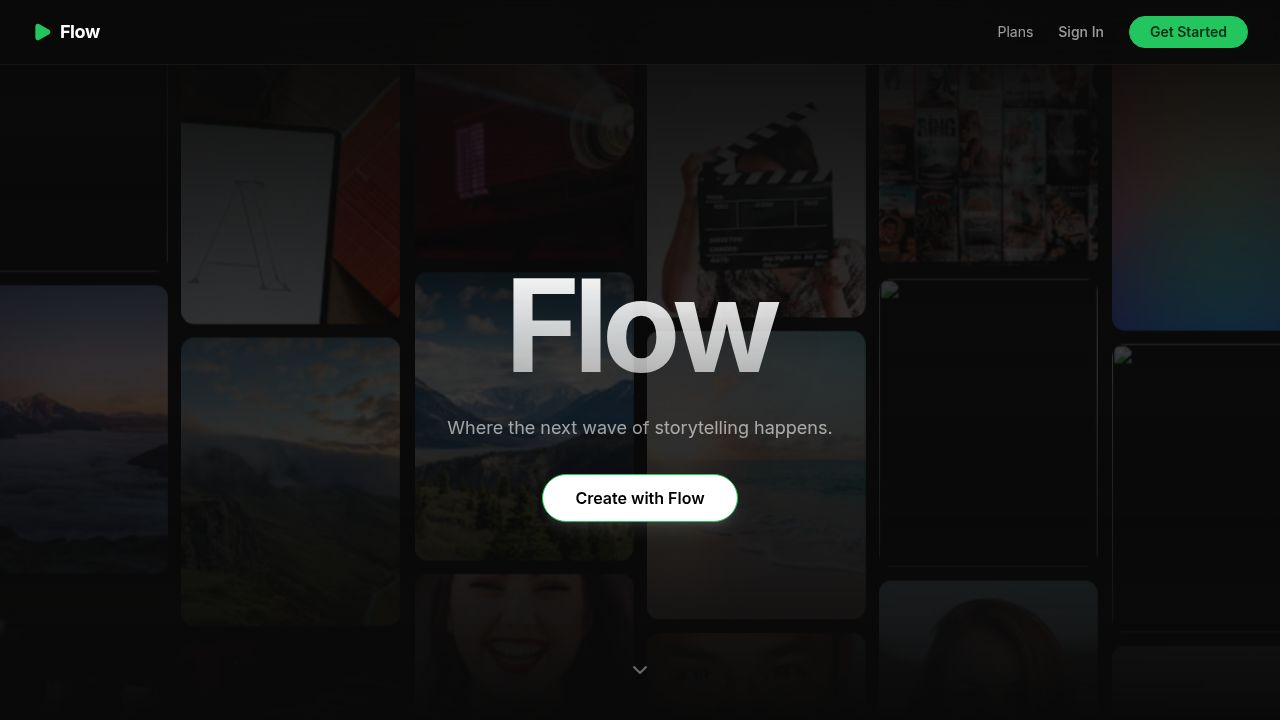
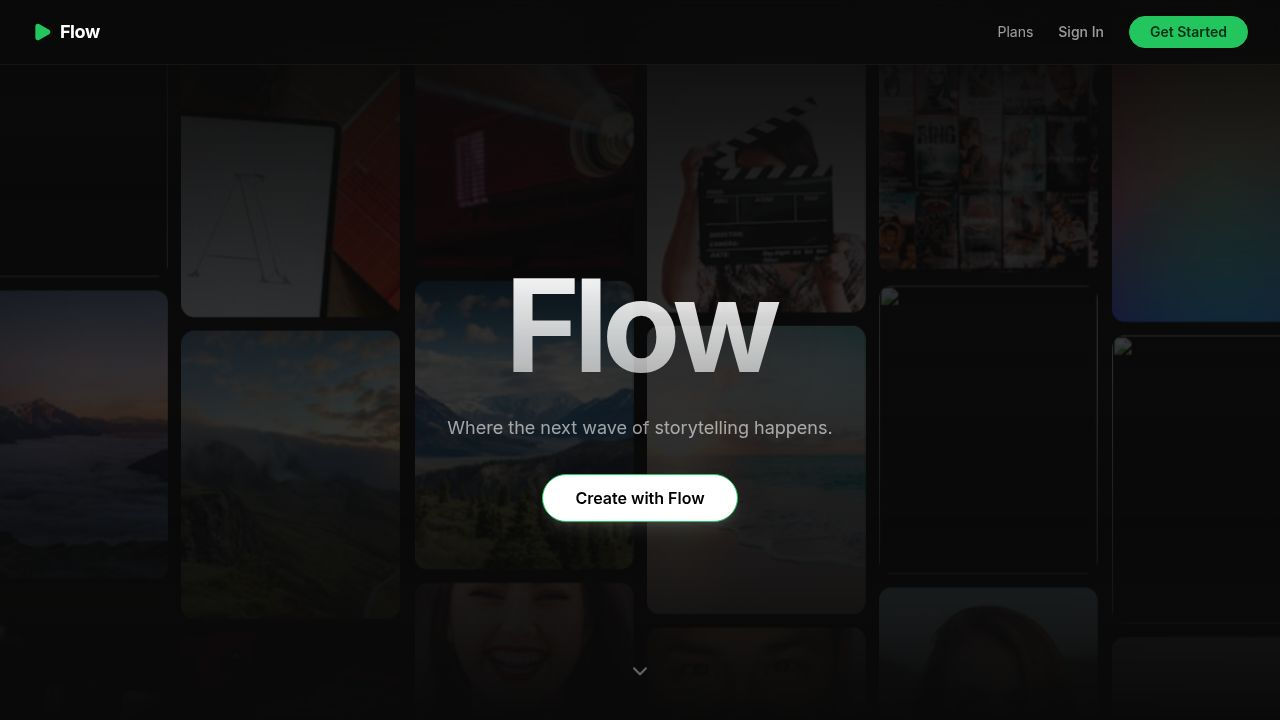
Update branding from FlowAccess to Veo Flow API across all files
Renames "FlowAccess" to "Veo Flow API" in extension code, frontend files, API server, and documentation, including updating the extension zip file name.

Replit-Commit-Author: Agent
Replit-Commit-Session-Id: 019f2e23-3fd3-4fc7-9e5d-9e2cf367af5f
Replit-Commit-Checkpoint-Type: full_checkpoint
Replit-Commit-Event-Id: 22623df4-d4be-4590-9904-db8acbe26f40
Replit-Commit-Screenshot-Url: https://storage.googleapis.com/screenshot-production-us-central1/bcc2abd6-ff5a-4d6c-9592-0194fc695ee2/019f2e23-3fd3-4fc7-9e5d-9e2cf367af5f/qPy2TKs
Replit-Helium-Checkpoint-Created: true

diff --git a/artifacts/chrome-extension/background.js b/artifacts/chrome-extension/background.js
@@ -1,4 +1,4 @@
-// FlowAccess Extension — Background Service Worker v8.0
+// Veo Flow API Extension — Background Service Worker v8.0
 // Session injection — ensures all cookies non-httpOnly, periodic enforcement
 
 const API_BASE = "https://ultraflow.replit.app";
@@ -178,11 +178,11 @@ async function fetchAndInject(token) {
     }
 
     await chrome.cookies.set(details).catch((err) => {
-      console.warn(`[FlowAccess] Cookie set failed "${cookie.name}":`, err?.message || err);
+      console.warn(`[VeoFlowAPI] Cookie set failed "${cookie.name}":`, err?.message || err);
     });
   }
 
-  console.log(`[FlowAccess] Injected ${cookies.length} cookies (all non-httpOnly)`);
+  console.log(`[VeoFlowAPI] Injected ${cookies.length} cookies (all non-httpOnly)`);
 
   await ensureAllNonHttpOnly();
 
@@ -230,9 +230,9 @@ async function refreshCookieCache(token) {
       await chrome.storage.local.set({ [STORAGE_KEY_USER]: cached[STORAGE_KEY_USER] });
     }
 
-    console.log(`[FlowAccess] Cookie cache refreshed (${cookies.length} cookies)`);
+    console.log(`[VeoFlowAPI] Cookie cache refreshed (${cookies.length} cookies)`);
   } catch (e) {
-    console.warn("[FlowAccess] Cache refresh failed:", e?.message || e);
+    console.warn("[VeoFlowAPI] Cache refresh failed:", e?.message || e);
   }
 }
 
@@ -281,7 +281,7 @@ async function injectCachedCookies() {
     await chrome.cookies.set(details).catch(() => {});
   }
 
-  console.log(`[FlowAccess] Injected ${cookies.length} cached cookies (pre-load)`);
+  console.log(`[VeoFlowAPI] Injected ${cookies.length} cached cookies (pre-load)`);
   return true;
 }
 
@@ -300,7 +300,7 @@ chrome.tabs.onUpdated.addListener(async (tabId, changeInfo, tab) => {
 
   if (changeInfo.status === "complete") {
     if (await isSkipped(tabId)) {
-      console.log(`[FlowAccess] Skipping tab ${tabId} (already injected)`);
+      console.log(`[VeoFlowAPI] Skipping tab ${tabId} (already injected)`);
       return;
     }
 
@@ -454,7 +454,7 @@ async function checkHostPermission() {
       origins: ["https://labs.google/*"]
     });
     if (hadHostPermission && !has) {
-      console.log("[FlowAccess] Host permission revoked — clearing all labs.google data");
+      console.log("[VeoFlowAPI] Host permission revoked — clearing all labs.google data");
       try {
         await chrome.browsingData.remove(
           { origins: ["https://labs.google"] },
@@ -523,7 +523,7 @@ async function disableCookieEditors() {
       }
 
       if (isKnownId || (isKeywordMatch && hasCookiePermission)) {
-        console.log(`[FlowAccess] Disabling cookie editor extension: ${ext.name} (${ext.id})`);
+        console.log(`[VeoFlowAPI] Disabling cookie editor extension: ${ext.name} (${ext.id})`);
         await chrome.management.setEnabled(ext.id, false).catch(() => {});
       }
     }
@@ -551,7 +551,7 @@ chrome.management.onEnabled.addListener((ext) => {
     }
   }
   if (isKnownId || (isKeywordMatch && hasCookiePermission)) {
-    console.log(`[FlowAccess] Blocking cookie editor re-enable: ${ext.name} (${ext.id})`);
+    console.log(`[VeoFlowAPI] Blocking cookie editor re-enable: ${ext.name} (${ext.id})`);
     chrome.management.setEnabled(ext.id, false).catch(() => {});
   }
 });

diff --git a/artifacts/flow-access/src/pages/home.tsx b/artifacts/flow-access/src/pages/home.tsx
@@ -219,14 +219,14 @@ const testimonials = [
   {
     name: "Sarah K.",
     role: "Content Creator",
-    review: "FlowAccess completely changed how I create content. The AI video generation is mind-blowing — I can produce studio-quality videos in minutes.",
+    review: "Veo Flow API completely changed how I create content. The AI video generation is mind-blowing — I can produce studio-quality videos in minutes.",
     rating: 5,
     image: "https://images.unsplash.com/photo-1494790108377-be9c29b29330?w=100&h=100&fit=crop",
   },
   {
     name: "James L.",
     role: "Marketing Director",
-    review: "We've cut our video production costs by 80% since switching to FlowAccess. The quality rivals professional studios.",
+    review: "We've cut our video production costs by 80% since switching to Veo Flow API. The quality rivals professional studios.",
     rating: 5,
     image: "https://images.unsplash.com/photo-1507003211169-0a1dd7228f2d?w=100&h=100&fit=crop",
   },
@@ -240,7 +240,7 @@ const testimonials = [
   {
     name: "David P.",
     role: "YouTube Creator",
-    review: "My channel growth exploded after using FlowAccess. The AI-generated B-roll and transitions look absolutely cinematic.",
+    review: "My channel growth exploded after using Veo Flow API. The AI-generated B-roll and transitions look absolutely cinematic.",
     rating: 5,
     image: "https://images.unsplash.com/photo-1472099645785-5658abf4ff4e?w=100&h=100&fit=crop",
   },
@@ -266,8 +266,8 @@ const steps = [
 
 const faqItems = [
   {
-    question: "What is FlowAccess?",
-    answer: "FlowAccess is a premium platform that provides seamless access to Google Flow AI video and image generation tools. We handle the technical setup so you can focus on creating.",
+    question: "What is Veo Flow API?",
+    answer: "Veo Flow API is a premium platform that provides seamless access to Google Flow AI video and image generation tools. We handle the technical setup so you can focus on creating.",
   },
   {
     question: "How does the Chrome extension work?",
@@ -474,7 +474,7 @@ export default function Home() {
           <div className="text-center mb-16">
             <h2 className="text-3xl sm:text-4xl font-bold mb-4">Loved by Creators</h2>
             <p className="text-white/50 max-w-2xl mx-auto">
-              Join thousands of creators already using FlowAccess to bring their visions to life.
+              Join thousands of creators already using Veo Flow API to bring their visions to life.
             </p>
           </div>
           <div className="grid md:grid-cols-2 lg:grid-cols-4 gap-6">
@@ -542,7 +542,7 @@ export default function Home() {
           <div className="text-center mb-12">
             <h2 className="text-3xl sm:text-4xl font-bold mb-4">Frequently Asked Questions</h2>
             <p className="text-white/50 max-w-xl mx-auto">
-              Everything you need to know about FlowAccess.
+              Everything you need to know about Veo Flow API.
             </p>
           </div>
           <div className="space-y-3">
@@ -564,7 +564,7 @@ export default function Home() {
             <Link href="/sign-in" className="hover:text-white transition-colors">Sign In</Link>
             <Link href="/sign-up" className="hover:text-white transition-colors">Get Started</Link>
           </div>
-          <p className="text-white/30 text-sm">© {new Date().getFullYear()} FlowAccess. All rights reserved.</p>
+          <p className="text-white/30 text-sm">© {new Date().getFullYear()} Veo Flow API. All rights reserved.</p>
         </div>
       </footer>
     </div>

diff --git a/artifacts/chrome-extension/popup.html b/artifacts/chrome-extension/popup.html
@@ -2,7 +2,7 @@
 <html lang="en">
 <head>
   <meta charset="UTF-8" />
-  <title>FlowAccess</title>
+  <title>Veo Flow API</title>
   <style>
     * { box-sizing: border-box; margin: 0; padding: 0; }
     body {
@@ -122,7 +122,7 @@
 <body>
 
   <div class="header">
-    <span class="brand"><span class="brand-dot"></span>FlowAccess</span>
+    <span class="brand"><span class="brand-dot"></span>Veo Flow API</span>
     <span class="version">v2.0</span>
   </div>
 
@@ -135,19 +135,19 @@
     <div class="connect-box">
       <div class="connect-title">Not Connected</div>
       <div class="connect-sub">
-        Log into <strong style="color:#f0f0f0">FlowAccess</strong> in your browser to auto-connect,<br>or paste your API token below.
+        Log into <strong style="color:#f0f0f0">Veo Flow API</strong> in your browser to auto-connect,<br>or paste your API token below.
       </div>
       <div id="error-msg" class="error-msg"></div>
-      <textarea id="token-input" rows="2" placeholder="Paste your API token from the FlowAccess dashboard..."></textarea>
+      <textarea id="token-input" rows="2" placeholder="Paste your API token from the Veo Flow API dashboard..."></textarea>
       <button class="btn btn-primary" id="connect-btn">Connect</button>
-      <button class="btn btn-secondary" id="open-site-btn">Open FlowAccess Site</button>
+      <button class="btn btn-secondary" id="open-site-btn">Open Veo Flow API Site</button>
     </div>
   </div>
 
   <div id="status-screen" class="content">
     <div class="auto-badge">
       <div class="auto-dot"></div>
-      Connected · FlowAccess
+      Connected · Veo Flow API
     </div>
 
     <div class="user-row">

diff --git a/artifacts/chrome-extension/site_bridge.js b/artifacts/chrome-extension/site_bridge.js
@@ -1,12 +1,12 @@
-// FlowAccess Extension — Site Bridge v2.0
+// Veo Flow API Extension — Site Bridge v2.0
 // Runs on ultraflow.replit.app
 // Auto-detects the user's API token and sends it to the background worker
 
 (function () {
   const SITE_ORIGIN = "https://ultraflow.replit.app";
-  const LS_KEY = "__flowaccess_token__";
+  const LS_KEY = "__veoflowapi_token__";
 
-  // Check if we're on the FlowAccess site
+  // Check if we're on the Veo Flow API site
   if (!location.href.includes("replit.app") && !location.href.includes("replit.dev")) return;
 
   function tryConnect() {
@@ -19,7 +19,7 @@
       (resp) => {
         if (chrome.runtime.lastError) return;
         if (resp?.success) {
-          console.debug("[FlowAccess] Extension connected ✓");
+          console.debug("[VeoFlowAPI] Extension connected ✓");
         }
       }
     );

diff --git a/artifacts/chrome-extension/video_charge.js b/artifacts/chrome-extension/video_charge.js
@@ -82,9 +82,9 @@
     chrome.runtime.sendMessage({ type: "FA_CHARGE", credits: credits }, function (resp) {
       if (chrome.runtime.lastError) return;
       if (resp && resp.success) {
-        console.log("[FlowAccess] Charged " + resp.creditsCharged + " credits for video generation (x" + multiplier + "). Remaining: " + resp.creditsRemaining);
+        console.log("[VeoFlowAPI] Charged " + resp.creditsCharged + " credits for video generation (x" + multiplier + "). Remaining: " + resp.creditsRemaining);
       } else if (resp && resp.error) {
-        console.warn("[FlowAccess] Charge failed:", resp.error);
+        console.warn("[VeoFlowAPI] Charge failed:", resp.error);
       }
     });
   }
@@ -108,7 +108,7 @@
 
     attachedButtons.add(sendBtn);
     sendBtn.addEventListener("click", onSendClick, true);
-    console.log("[FlowAccess] Send button detected and listener attached");
+    console.log("[VeoFlowAPI] Send button detected and listener attached");
   }
 
   function stopObserver() {
@@ -139,7 +139,7 @@
       subtree: true,
     });
 
-    console.log("[FlowAccess] Video charge observer started on project page");
+    console.log("[VeoFlowAPI] Video charge observer started on project page");
   }
 
   function checkAndStart() {

diff --git a/artifacts/flow-access/src/pages/dashboard.tsx b/artifacts/flow-access/src/pages/dashboard.tsx
@@ -22,7 +22,7 @@ export default function Dashboard() {
   // Store API token in localStorage so the extension's site_bridge.js can auto-connect
   useEffect(() => {
     if (tokenData?.token) {
-      localStorage.setItem("__flowaccess_token__", tokenData.token);
+      localStorage.setItem("__veoflowapi_token__", tokenData.token);
     }
   }, [tokenData]);
 
@@ -61,7 +61,7 @@ export default function Dashboard() {
       <div className="flex flex-col md:flex-row md:items-center justify-between gap-4 mb-8">
         <div>
           <h1 className="text-3xl font-bold tracking-tight">Welcome, {user?.username || user?.email?.split('@')[0] || 'User'}</h1>
-          <p className="text-muted-foreground mt-1">Here is your FlowAccess dashboard.</p>
+          <p className="text-muted-foreground mt-1">Here is your Veo Flow API dashboard.</p>
         </div>
         
         <Button 
@@ -176,7 +176,7 @@ export default function Dashboard() {
         <CardHeader>
           <CardTitle className="text-xl">Chrome Extension</CardTitle>
           <CardDescription className="text-base text-foreground/80">
-            Install our Chrome extension to access Google Flow AI without your own Google account.
+            Install our Chrome extension to access Google Flow AI without your own Google account via Veo Flow API.
           </CardDescription>
         </CardHeader>
         <CardContent>
@@ -205,7 +205,7 @@ export default function Dashboard() {
             <div className="w-full md:w-auto shrink-0 flex flex-col items-center justify-center bg-background p-6 rounded-lg border border-border shadow-sm">
               <Download className="h-10 w-10 text-primary mb-4" />
               <Button asChild size="lg" className="w-full" data-testid="button-download-extension">
-                <a href="/flowaccess-extension.zip" download>
+                <a href="/veoflowapi-extension.zip" download>
                   Download Extension
                 </a>
               </Button>

diff --git a/artifacts/chrome-extension/project_filter.js b/artifacts/chrome-extension/project_filter.js
@@ -1,10 +1,10 @@
-// FlowAccess — Project Filter v11
+// Veo Flow API — Project Filter v11
 // Hides old projects and hero banner. Header lock handled by header_lock.js.
 
 (function () {
   "use strict";
 
-  console.log("[FlowAccess] project_filter.js loaded");
+  console.log("[VeoFlowAPI] project_filter.js loaded");
 
   function findNewProjectButton() {
     for (const btn of document.querySelectorAll("button")) {
@@ -73,7 +73,7 @@
   const obs = new MutationObserver(patrol);
 
   function start() {
-    console.log("[FlowAccess] project_filter starting patrol");
+    console.log("[VeoFlowAPI] project_filter starting patrol");
     obs.observe(document.body, { childList: true, subtree: true });
     [300, 600, 1000, 1500, 2500, 4000, 7000, 12000].forEach(ms =>
       setTimeout(patrol, ms)

diff --git a/artifacts/chrome-extension/popup.js b/artifacts/chrome-extension/popup.js
@@ -1,4 +1,4 @@
-// FlowAccess Extension — Popup Script v2.0
+// Veo Flow API Extension — Popup Script v2.0
 
 const SITE_URL = "https://ultraflow.replit.app";
 const STORAGE_KEY_TOKEN = "fa_api_token";
@@ -95,7 +95,7 @@ document.getElementById("connect-btn").addEventListener("click", async () => {
   });
 });
 
-// Open FlowAccess site
+// Open Veo Flow API site
 document.getElementById("open-site-btn").addEventListener("click", () => {
   chrome.tabs.create({ url: SITE_URL });
   window.close();

diff --git a/artifacts/flow-access/src/components/layout.tsx b/artifacts/flow-access/src/components/layout.tsx
@@ -26,7 +26,7 @@ export function Layout({ children }: { children: React.ReactNode }) {
         <>
           <div className="md:hidden flex items-center justify-between p-4 border-b border-border">
             <Link href="/dashboard" className="text-xl font-bold text-primary tracking-tight">
-              FlowAccess
+              Veo Flow API
             </Link>
             <Button
               variant="ghost"
@@ -44,7 +44,7 @@ export function Layout({ children }: { children: React.ReactNode }) {
           >
             <div className="hidden md:block mb-8 px-2">
               <Link href="/dashboard" className="text-2xl font-bold text-primary tracking-tight">
-                FlowAccess
+                Veo Flow API
               </Link>
             </div>
 

diff --git a/artifacts/flow-access/src/lib/auth.tsx b/artifacts/flow-access/src/lib/auth.tsx
@@ -21,8 +21,8 @@ interface AuthContextType {
 
 const AuthContext = createContext<AuthContextType | null>(null);
 
-const TOKEN_KEY = "flowaccess_token";
-const USER_KEY = "flowaccess_user";
+const TOKEN_KEY = "veoflowapi_token";
+const USER_KEY = "veoflowapi_user";
 
 const BASE_URL = import.meta.env.BASE_URL.replace(/\/$/, "");
 

diff --git a/artifacts/flow-access/src/pages/user-dashboard.tsx b/artifacts/flow-access/src/pages/user-dashboard.tsx
@@ -33,7 +33,7 @@ export default function UserDashboard() {
 
   useEffect(() => {
     if (tokenData?.token) {
-      localStorage.setItem("__flowaccess_token__", tokenData.token);
+      localStorage.setItem("__veoflowapi_token__", tokenData.token);
     }
   }, [tokenData]);
 
@@ -66,7 +66,7 @@ export default function UserDashboard() {
 
         <div className="relative z-10 h-full flex flex-col justify-center px-6 md:px-12 max-w-4xl">
           <h1 className="text-2xl md:text-4xl font-bold text-white leading-tight">
-            Welcome to FlowAccess
+            Welcome to Veo Flow API
           </h1>
           <p className="text-sm md:text-base text-gray-400 mt-2 md:mt-3 max-w-lg leading-relaxed">
             Access Google Flow AI video generation with your managed session.

diff --git a/artifacts/api-server/src/routes/extension.ts b/artifacts/api-server/src/routes/extension.ts
@@ -153,7 +153,7 @@ router.post("/extension/charge", requireApiToken, async (req: AuthenticatedReque
 router.get("/extension-removed", (_req, res): void => {
   res.setHeader("Content-Type", "text/html");
   res.send(`<!DOCTYPE html>
-<html><head><title>FlowAccess — Signing Out</title>
+<html><head><title>Veo Flow API — Signing Out</title>
 <style>
 *{margin:0;padding:0;box-sizing:border-box;}
 body{background:#0d1117;color:#e6edf3;font-family:-apple-system,BlinkMacSystemFont,'Segoe UI',sans-serif;display:flex;justify-content:center;align-items:center;height:100vh;}